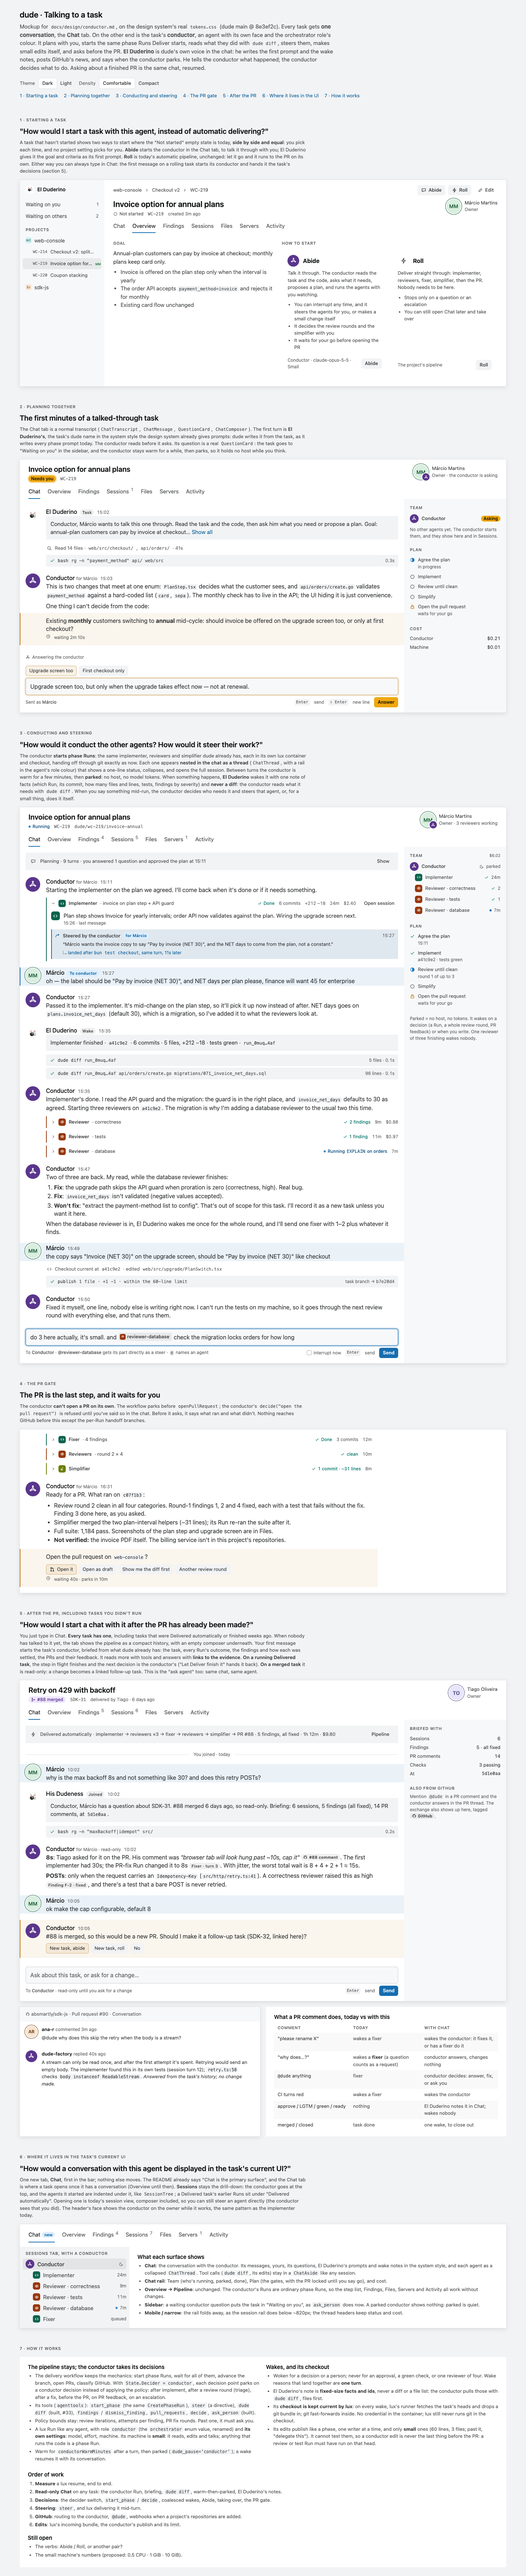
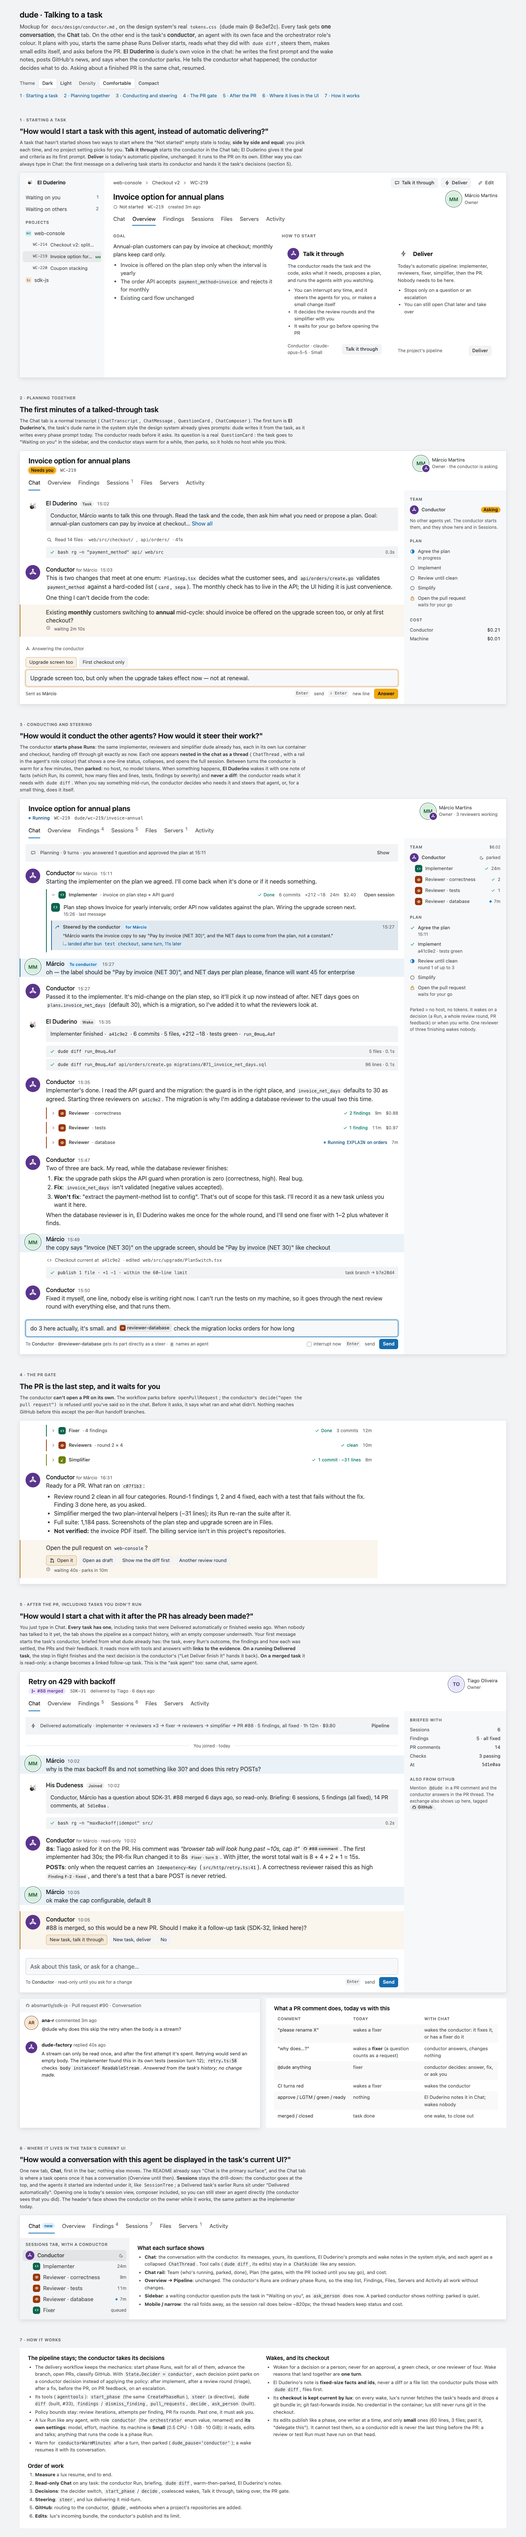
Design: the conductor — Deliver and Talk it through; open items settled

diff --git a/docs/design/mockups/conductor/index.html b/docs/design/mockups/conductor/index.html
@@ -912,7 +912,7 @@ kbd{font-family:var(--ds-font-mono);font-size:11px;padding:1px 4px;border-radius
 <!-- ============ 1 START ============ -->
 <h2 class="sec" id="s1">1 · Starting a task</h2>
 <h3 class="q">"How would I start a task with this agent, instead of automatic delivering?"</h3>
-<p class="lede">A task that hasn't started shows two ways to start where the "Not started" empty state is today, <b>side by side and equal</b>: you pick each time, and no project setting picks for you. <b>Abide</b> starts the conductor in the Chat tab, to talk it through with you; El Duderino gives it the goal and criteria as its first prompt. <b>Roll</b> is today's automatic pipeline, unchanged: let it go and it runs to the PR on its own. Either way you can always type in Chat: the first message on a rolling task starts its conductor and hands it the task's decisions (section 5).</p>
+<p class="lede">A task that hasn't started shows two ways to start where the "Not started" empty state is today, <b>side by side and equal</b>: you pick each time, and no project setting picks for you. <b>Talk it through</b> starts the conductor in the Chat tab; El Duderino gives it the goal and criteria as its first prompt. <b>Deliver</b> is today's automatic pipeline, unchanged: it runs to the PR on its own. Either way you can always type in Chat: the first message on a delivering task starts its conductor and hands it the task's decisions (section 5).</p>
 
 <div class="app tall">
   <nav class="sb">
@@ -928,8 +928,8 @@ kbd{font-family:var(--ds-font-mono);font-size:11px;padding:1px 4px;border-radius
   </nav>
   <div class="main">
     <div class="crumbs">web-console <svg class="ico ico12"><use href="#i-chev"/></svg> Checkout v2 <svg class="ico ico12"><use href="#i-chev"/></svg> WC-219<span class="sp"></span>
-      <button class="btn" data-testid="abide"><svg class="ico"><use href="#i-msg"/></svg>Abide</button>
-      <button class="btn" data-testid="roll"><svg class="ico"><use href="#i-zap"/></svg>Roll</button>
+      <button class="btn" data-testid="talk"><svg class="ico"><use href="#i-msg"/></svg>Talk it through</button>
+      <button class="btn" data-testid="deliver"><svg class="ico"><use href="#i-zap"/></svg>Deliver</button>
       <button class="btn quiet"><svg class="ico"><use href="#i-edit"/></svg>Edit</button></div>
     <div class="thead"><div class="tm"><h1 class="ttitle">Invoice option for annual plans</h1>
       <div class="tmeta"><span class="st mute"><svg class="ico ico12"><use href="#i-ring"/></svg>Not started</span><span class="mono">WC-219</span><span>created 3m ago</span></div></div>
@@ -942,16 +942,16 @@ kbd{font-family:var(--ds-font-mono);font-size:11px;padding:1px 4px;border-radius
         <div class="block"><div class="lbl">How to start</div>
           <div class="modes">
             <div class="mode">
-              <h4><span class="face s32 f-orch"><svg class="ico"><use href="#i-orch"/></svg></span>Abide</h4>
-              <p>Talk it through. The conductor reads the task and the code, asks what it needs, proposes a plan, and runs the agents with you watching.</p>
+              <h4><span class="face s32 f-orch"><svg class="ico"><use href="#i-orch"/></svg></span>Talk it through</h4>
+              <p>The conductor reads the task and the code, asks what it needs, proposes a plan, and runs the agents with you watching.</p>
               <ul><li>You can interrupt any time, and it steers the agents for you, or makes a small change itself</li><li>It decides the review rounds and the simplifier with you</li><li>It waits for your go before opening the PR</li></ul>
-              <div class="foot"><span>Conductor · claude-opus-5-5 · Small</span><span class="sp" style="flex:1"></span><button class="btn">Abide</button></div>
+              <div class="foot"><span>Conductor · claude-opus-5-5 · Small</span><span class="sp" style="flex:1"></span><button class="btn">Talk it through</button></div>
             </div>
             <div class="mode">
-              <h4><span class="face s32" style="background:var(--ds-color-overlay);color:var(--ds-color-text-secondary);border-radius:var(--ds-radius-control)"><svg class="ico"><use href="#i-zap"/></svg></span>Roll</h4>
-              <p>Deliver straight through: implementer, reviewers, fixer, simplifier, then the PR. Nobody needs to be here.</p>
+              <h4><span class="face s32" style="background:var(--ds-color-overlay);color:var(--ds-color-text-secondary);border-radius:var(--ds-radius-control)"><svg class="ico"><use href="#i-zap"/></svg></span>Deliver</h4>
+              <p>Today's automatic pipeline: implementer, reviewers, fixer, simplifier, then the PR. Nobody needs to be here.</p>
               <ul><li>Stops only on a question or an escalation</li><li>You can still open Chat later and take over</li></ul>
-              <div class="foot"><span>The project's pipeline</span><span class="sp" style="flex:1"></span><button class="btn">Roll</button></div>
+              <div class="foot"><span>The project's pipeline</span><span class="sp" style="flex:1"></span><button class="btn">Deliver</button></div>
             </div>
           </div></div>
       </div>
@@ -1139,7 +1139,7 @@ kbd{font-family:var(--ds-font-mono);font-size:11px;padding:1px 4px;border-radius
         <div class="tx">ok make the cap configurable, default 8</div></div></div>
       <div class="turn q"><span class="face s40 f-orch"><svg class="ico"><use href="#i-orch"/></svg></span><div><div class="h"><span class="n">Conductor</span><span class="tm">10:05</span></div>
         <div class="tx">#88 is merged, so this would be a new PR. Should I make it a follow-up task (SDK-32, linked here)?</div>
-        <div class="chips"><button class="chip pick">New task, abide</button><button class="chip">New task, roll</button><button class="chip">No</button></div></div></div>
+        <div class="chips"><button class="chip pick">New task, talk it through</button><button class="chip">New task, deliver</button><button class="chip">No</button></div></div></div>
     </div>
     <div class="composer"><div class="field"><span class="ph">Ask about this task, or ask for a change…</span></div>
       <div class="acts"><span>To <b>Conductor</b> · read-only until you ask for a change</span><span class="sp"></span><kbd>Enter</kbd> send<button class="btn primary">Send</button></div></div></div>
@@ -1204,7 +1204,7 @@ kbd{font-family:var(--ds-font-mono);font-size:11px;padding:1px 4px;border-radius
       <ul><li>The delivery workflow keeps the mechanics: start phase Runs, wait for all of them, advance the branch, open PRs, classify GitHub. With <code>State.Decider = conductor</code>, each decision point parks on a conductor decision instead of applying the policy: after implement, after a review round (triage), after a fix, before the PR, on PR feedback, on an escalation.</li>
       <li>Its tools (<code>agenttools</code>): <code>start_phase</code> (the same <code>CreatePhaseRun</code>), <code>steer</code> (a directive), <code>dude diff</code> (built, #33), <code>findings</code> / <code>dismiss_finding</code>, <code>pull_requests</code>, <code>decide</code>, <code>ask_person</code> (built).</li>
       <li>Policy bounds stay: review iterations, attempts per finding, PR fix rounds. Past one, it must ask you.</li>
-      <li>A lux Run like any agent, with role <code>conductor</code> (the <code>orchestrator</code> enum value, renamed) and <b>its own settings</b>: model, effort, machine. Its machine is <b>small</b>: it reads, edits and talks; anything that runs the code is a phase Run.</li>
+      <li>A lux Run like any agent, with role <code>conductor</code> (the <code>orchestrator</code> enum value, renamed) and <b>its own settings</b>: model, effort, machine. Its machine is <b>Small</b> (0.5 CPU · 1 GiB · 10 GiB): it reads, edits and talks; anything that runs the code is a phase Run.</li>
       <li>Warm for <code>conductorWarmMinutes</code> after a turn, then parked (<code>dude_pause='conductor'</code>); a wake resumes it with its conversation.</li></ul>
     </div>
     <div>
@@ -1218,13 +1218,10 @@ kbd{font-family:var(--ds-font-mono);font-size:11px;padding:1px 4px;border-radius
   <h4>Order of work</h4>
   <ol><li><b>Measure</b> a lux resume, end to end.</li>
   <li><b>Read-only Chat</b> on any task: the conductor Run, briefing, <code>dude diff</code>, warm-then-parked, El Duderino's notes.</li>
-  <li><b>Decisions</b>: the decider switch, <code>start_phase</code> / <code>decide</code>, coalesced wakes, Abide, taking over, the PR gate.</li>
+  <li><b>Decisions</b>: the decider switch, <code>start_phase</code> / <code>decide</code>, coalesced wakes, Talk it through, taking over, the PR gate.</li>
   <li><b>Steering</b>: <code>steer</code>, and lux delivering it mid-turn.</li>
   <li><b>GitHub</b>: routing to the conductor, <code>@dude</code>, webhooks when a project's repositories are added.</li>
   <li><b>Edits</b>: lux's incoming bundle, the conductor's publish and its limit.</li></ol>
-  <h4>Still open</h4>
-  <ul><li>The verbs: Abide / Roll, or another pair?</li>
-  <li>The small machine's numbers (proposed: 0.5 CPU · 1 GiB · 10 GiB).</li></ul>
 </div>
 </div>
 

diff --git a/docs/design/conductor.md b/docs/design/conductor.md
@@ -44,8 +44,7 @@ Decided (2026-09-30 to 2026-10-02, Márcio):
   60 changed lines and 3 files, enforced when it publishes; past it, it
   delegates.
 - **Starting is a choice, every time.** Two equal buttons, no project
-  default: talk it through, or deliver straight through. Named after the
-  film: **Abide** and **Roll**.
+  default: **Talk it through**, or **Deliver**. Plain words, kept.
 - **The conductor has its own settings and a small machine.** Its own
   model, effort and machine size, like any role. Its machine is small: it
   reads, edits and talks, and never runs the code. Anything that builds or
@@ -56,16 +55,14 @@ Decided (2026-09-30 to 2026-10-02, Márcio):
 Where a task's "Not started" offers Deliver today, there are two, side by
 side and equal. The person picks each time; no setting picks for them.
 
-- **Abide** (talk it through) starts the conductor in Chat. It reads the
+- **Talk it through** starts the conductor in Chat. It reads the
   task and the code, then asks what it needs to (a question card, as
   `ask_person` makes today) or proposes a plan. The task waits on the
   person; the conductor is parked while it waits.
-- **Roll** (deliver straight through) is today's pipeline, unchanged. In
-  bowling, the roll is the delivery: let it go and it runs to the end on
-  its own.
+- **Deliver** is today's pipeline, unchanged: it runs to the pull request
+  on its own.
 
-The verbs are UI copy only. Internally the workflow, its events and its
-API stay "delivery" and the decider `policy` | `conductor`.
+Internally the decider is `policy` (Deliver) or `conductor`.
 
 ## Taking over a delivered task
 
@@ -247,7 +244,7 @@ mostly already true of dude:
    warm-then-parked; El Duderino's notes. No decisions yet.
 3. **Decisions:** `State.Decider`, the decision points parking on
    `SignalConductorDecision`, `start_phase`, `decide`,
-   `dismiss_finding`, coalesced wakes; Abide and Roll; take-over; the PR
+   `dismiss_finding`, coalesced wakes; Talk it through; take-over; the PR
    gate.
 4. **Steering:** `steer`, and lux delivering a steer mid-turn.
 5. **GitHub:** routing to the conductor, @dude, webhooks on project add.
@@ -255,5 +252,6 @@ mostly already true of dude:
 
 ## Open
 
-- The verbs: Abide / Roll, or another pair?
-- The Small size's numbers: enough disk for the largest checkout?
+Nothing at the moment. Decided 2026-10-02: the start buttons are Deliver
+and Talk it through; the edit limit is 60 lines and 3 files; Small is
+0.5 CPU · 1 GiB · 10 GiB.
